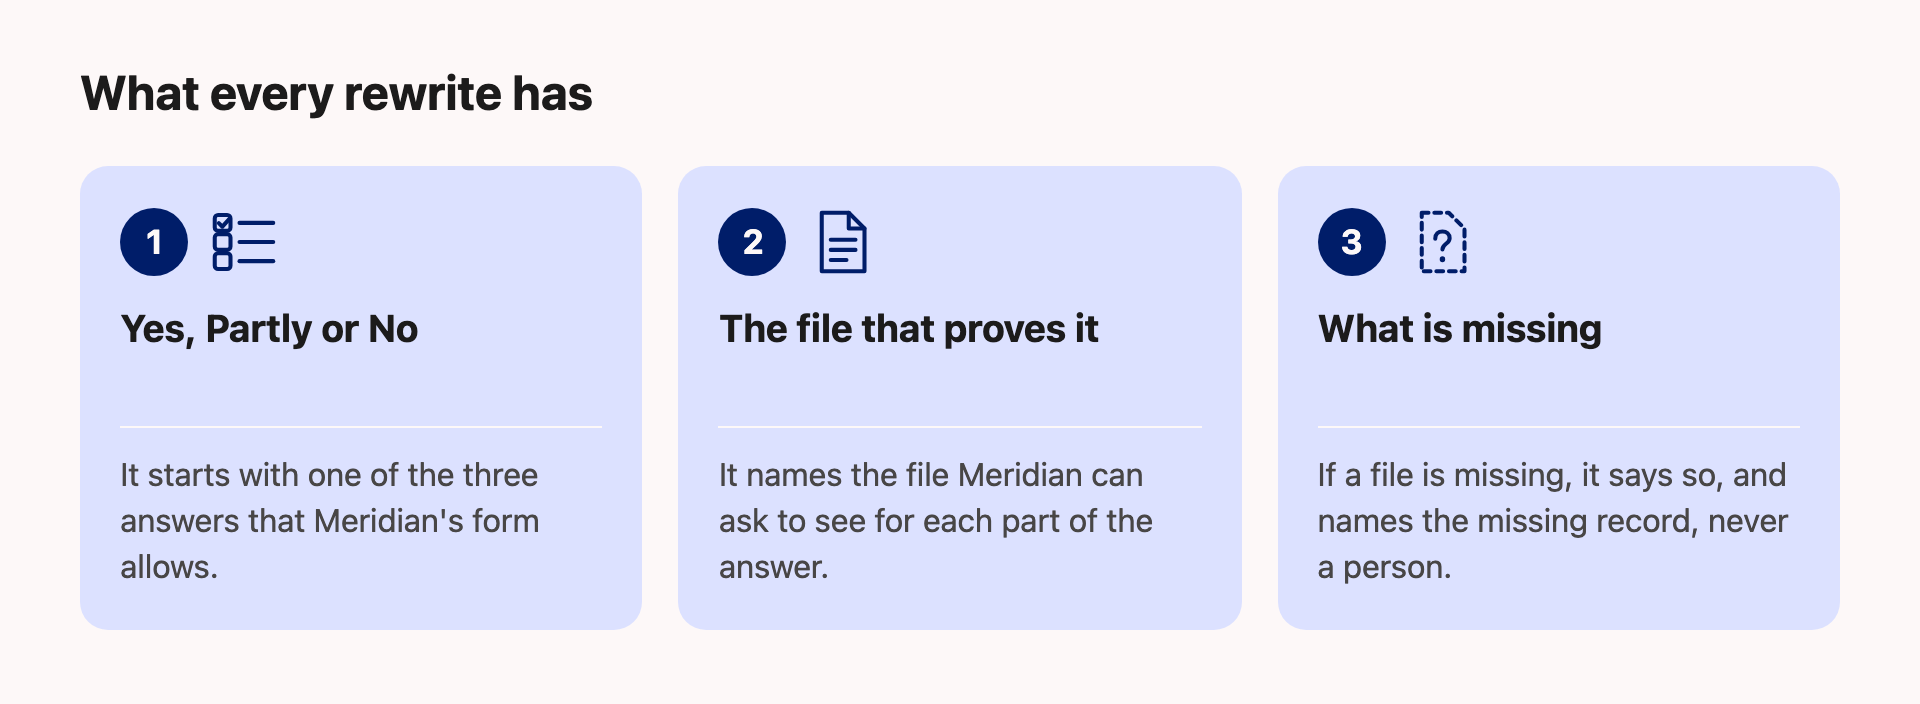
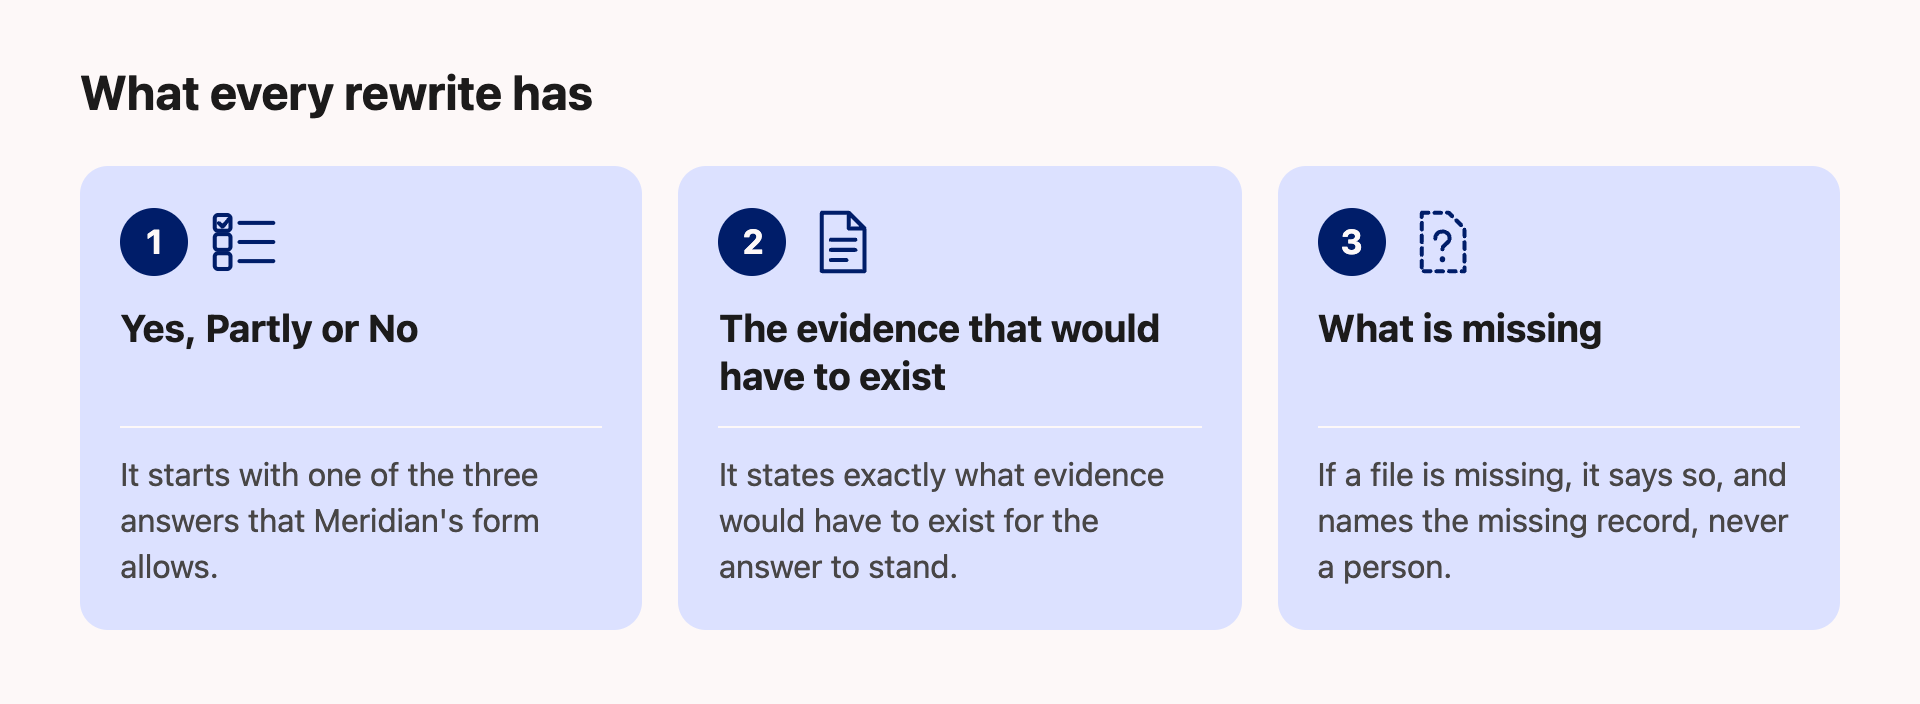
Publish vCISO P1 Step 1 interactives
Project 1 Step 1 interactives for the vCISO externship. Extern palette
only, vanilla JS, no external requests, keyboard operable, reduced-motion
safe.

Changed region(s): [[0.375, 0.4375, 0.625, 0.5625], [0.375, 0.7188, 0.5938, 0.8438], [0.375, 0.6562, 0.625, 0.6875]]

diff --git a/vciso-p4-m11-which-answer-would-you-rather-receive.html b/vciso-p4-m11-which-answer-would-you-rather-receive.html
@@ -18,7 +18,7 @@
   - Answer A and Answer B, word for word: P4 Sample Pack/Interactive content sets - P4.md, P4-10.
   - Answer (B) and reveal: P4-10 and the build spec. The reveal wording is the spec's, with "the first" and
     "the second" named as Answer A and Answer B, and "the customer" named as Meridian.
-  - "What Meridian would find": firewall-review-emails.pdf, identical in all four scope
+  - "Why Answer B Is Safer" (closing screen): firewall-review-emails.pdf, identical in all four scope
     folders (14 March 2024 and 22 August 2024).
   - "Partly": Meridian's own instructions on the form ("Answer every question Yes / No /
     Partly ..."). The line under Answer B only says Partly is one of the three allowed
@@ -161,7 +161,7 @@
   .panel.in{animation:rin var(--t-reveal) var(--ease-over) both}
   .panel:focus{outline:none}
 
-  /* ---- the last slide: what Meridian would find ---- */
+  /* ---- the last slide: why Answer B is safer ---- */
   .closewrap{flex:1 1 auto;display:flex;flex-direction:column;gap:12px;min-height:0}
   .yours{flex:0 0 auto;display:flex;align-items:flex-start;line-height:1.4;gap:10px;font-size:15.5px;color:var(--body)}
   .yours b{color:var(--title);font-weight:600}
@@ -275,7 +275,7 @@
       <li><strong>Answer B: "Partly. Reviews were carried out twice in 2024 and recorded in email at the time. There is no written process and no record for 2025."</strong><span>Partly is one of the three answers Meridian's form allows: Yes, No or Partly. A written process is a document that says how and when something should be done.</span></li>
     </ul>
     <p>Before you read on, write down the one that you think you would rather receive if you were Meridian.</p>
-    <h3>What Meridian would find</h3>
+    <h3>Why Answer B Is Safer</h3>
     <div class="box">
       <p>Answer B is the right pick.</p>
       <p>Answer A is the one that ends the contract. Meridian can check it, and it won't stand. Answer B can't be caught out, because it has already said what's missing.</p>
@@ -343,7 +343,7 @@
 
   var S = [
     { id:"q1", kind:"pick", q:"q1", qno:1 },
-    { id:"find", kind:"close", h1:"What Meridian Would Find" }
+    { id:"find", kind:"close", h1:"Why Answer B Is Safer" }
   ];
   var NQ = 1;
 
@@ -524,7 +524,7 @@
     } else if(f1 === ANSWER){
       line = icon("check") + "<span>You picked <b>Answer B</b>. That is the right pick.</span>";
     } else {
-      line = icon("info") + "<span>Your first pick is marked below. <b>Answer B</b> is the right pick.</span>";
+      line = icon("info") + "<span><b>Answer B</b> is the right pick.</span>";
     }
     el.board.innerHTML = '<div class="closewrap">'
       + '<p class="yours">' + line + "</p>"

diff --git a/vciso-p4-m11-what-every-rewrite-has.html b/vciso-p4-m11-what-every-rewrite-has.html
@@ -38,8 +38,8 @@
         <div class="num">2</div>
         <svg class="i" viewBox="0 0 32 32" aria-hidden="true"><path d="M7 3h12l7 7v19H7z"/><path d="M19 3v7h7"/><path d="M11 15h11M11 19.5h11M11 24h7"/></svg>
       </div>
-      <h2>The file that proves it</h2>
-      <p class="means">It names the file Meridian can ask to see for each part of the answer.</p>
+      <h2>The evidence that would have to exist</h2>
+      <p class="means">It states exactly what evidence would have to exist for the answer to stand.</p>
     </div>
 
     <div class="card">
